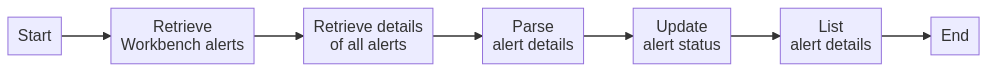
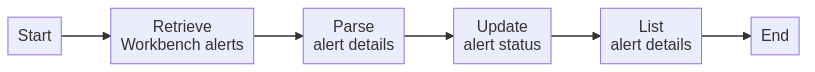
replace workbench related APIs to simplify logic by new API "GET workbenchHistories"
- script outputs and Elasticsearch index are changed partially, so please refer to README document and API document for details

diff --git a/v1-events-to-elasticsearch/python/v1_events_to_elasticsearch.py b/v1-events-to-elasticsearch/python/v1_events_to_elasticsearch.py
@@ -62,7 +62,7 @@ class TmV1Client:
         raise RuntimeError(f'Request unsuccessful (POST {path}):'
                            f' {r.status_code} {r.text}')
 
-    def get_siem(self, start, end, offset=None, size=None):
+    def get_workbench_histories(self, start, end, offset=None, size=None):
         if not check_datetime_aware(start):
             start = start.astimezone()
         if not check_datetime_aware(end):
@@ -72,17 +72,12 @@ class TmV1Client:
         start = start.isoformat(timespec='milliseconds').replace('+00:00', 'Z')
         end = end.isoformat(timespec='milliseconds').replace('+00:00', 'Z')
         # API returns data in the range of [offset, offset+limit)
-        return self.get('/v2.0/siem/events', params=dict([
-            ('startDateTime', start), ('endDateTime', end)
-        ]
+        return self.get('/v2.0/xdr/workbench/workbenchHistories',
+            params=dict([('startTime', start), ('endTime', end),
+                ('sortBy', '-createdTime')]
             + ([('offset', offset)] if offset is not None else [])
             + ([('limit', size)] if size is not None else [])
         ))['data']['workbenchRecords']
-
-    def get_workbench(self, workbench_id):
-        return self.get(
-            f'/v2.0/xdr/workbench/workbenches/{workbench_id}'
-        )['data']
 
     def get_oat(self, start, end, size=None, nextBatchToken=None):
         if size is None:
@@ -119,26 +114,13 @@ def fetch_workbench_alerts(v1, start, end):
     size = 100
     alerts = []
     while True:
-        gotten = v1.get_siem(start, end, offset, size)
+        gotten = v1.get_workbench_histories(start, end, offset, size)
         if not gotten:
             break
         print(f'Workbench alerts ({offset} {offset+size}): {len(gotten)}')
         alerts.extend(gotten)
         offset = len(alerts)
     return alerts
-
-
-def fetch_workbench_details(v1, alerts):
-    """
-    This function do the loop to get the workbench detail every alert.
-    """
-    details = []
-    count = len(alerts)
-    for i, alert in enumerate(alerts):
-        details.append(v1.get_workbench(alert['workbenchId']))
-        print(f'\rWorkbench alert details {i+1}/{count}',
-              end=('' if (i + 1) < count else None))
-    return details
 
 
 def fetch_observed_attack_techniques(v1, start, end):
@@ -197,11 +179,11 @@ def correct_data(docs):
        This function names the same field for timestamp, 'es_basetime'.
     """
     for d in docs['workbench']:
-        for entity in d['impactScope']:
+        for entity in d['detail']['impactScope']:
             if isinstance(entity['entityValue'], str):
                 entity['entityString'] = entity['entityValue']
                 entity['entityValue'] = {}
-        d['es_basetime'] = d['workbenchCompleteTimestamp']
+        d['es_basetime'] = d['detail']['workbenchCompleteTimestamp']
     for d in docs['observed_techniques']:
         d['es_basetime'] = d['detectionTime']
     if 'detections' in docs:
@@ -225,8 +207,7 @@ def pull_v1_data_to_es(v1, es, start, end, index_prefix, include_detections):
     if not es.ping():
         raise RuntimeError('Elasticsearch server unavailable')
     docs = {}
-    alerts = fetch_workbench_alerts(v1, start, end)
-    docs['workbench'] = fetch_workbench_details(v1, alerts)
+    docs['workbench'] = fetch_workbench_alerts(v1, start, end)
     docs['observed_techniques'] = fetch_observed_attack_techniques(
         v1, start, end)
     if include_detections:

diff --git a/detection-and-response/python/detection_and_response.py b/detection-and-response/python/detection_and_response.py
@@ -58,7 +58,7 @@ class TmV1Client:
         raise RuntimeError(f'Request unsuccessful (PUT {path}):'
                            f' {r.status_code} {r.text}')
 
-    def list_workbench(self, start, end, status_list=None,
+    def get_workbench_histories(self, start, end, status_list=None,
                        offset=None, size=None):
         if not check_datetime_aware(start):
             start = start.astimezone()
@@ -69,19 +69,14 @@ class TmV1Client:
         start = start.isoformat(timespec='milliseconds').replace('+00:00', 'Z')
         end = end.isoformat(timespec='milliseconds').replace('+00:00', 'Z')
         # API returns data in the range of [offset, offset+limit)
-        return self.post('/v2.0/xdr/workbench/workbenches/history', json=dict([
-            ('startTime', start), ('endTime', end), ('sortBy', '-createdTime')
-        ]
+        return self.get('/v2.0/xdr/workbench/workbenchHistories', 
+            params=dict([('startTime', start), ('endTime', end),
+                ('sortBy', '-createdTime')]
             + ([('investigationStatus', status_list)]
                 if status_list is not None else [])
             + ([('offset', offset)] if offset is not None else [])
             + ([('limit', size)] if size is not None else [])
         ))['data']['workbenchRecords']
-
-    def get_workbench(self, workbench_id):
-        return self.get(
-            f'/v2.0/xdr/workbench/workbenches/{workbench_id}'
-        )['data']
 
     def update_workbench(self, workbench_id, status):
         return self.put(
@@ -127,7 +122,7 @@ def fetch_new_workbench_alerts(v1, start, end):
     size = 100
     alerts = []
     while True:
-        gotten = v1.list_workbench(
+        gotten = v1.get_workbench_histories(
             start, end, [TmV1Client.WB_STATUS_NEW], offset, size)
         if not gotten:
             break
@@ -171,8 +166,7 @@ def main(start, end, days, v1_token, v1_url):
     for record in wb_records:
         wb_id = record['workbenchId']
         v1.update_workbench(wb_id, TmV1Client.WB_STATUS_IN_PROGRESS)
-        workbench = v1.get_workbench(wb_id)
-        impact_scope = workbench['impactScope']
+        impact_scope = record['detail']['impactScope']
         for entity in impact_scope:
             entity_type = entity['entityType']
             if entity_type == 'host':
@@ -195,7 +189,7 @@ def main(start, end, days, v1_token, v1_url):
                            f'{os.linesep}Related acounts = {accounts}')
                     v1.add_workbench_notes(wb_id, msg)
             elif entity_type == 'emailAddress':
-                query = create_message_query(entity, workbench['indicators'])
+                query = create_message_query(entity, record['detail']['indicators'])
                 mail_logs = v1.search_message_activities(
                     start, end, query)['data']['logs']
                 if mail_logs:

diff --git a/check-incident-details/python/check_incident_details.py b/check-incident-details/python/check_incident_details.py
@@ -48,7 +48,7 @@ class TmV1Client:
         raise RuntimeError(f'Request unsuccessful (PUT {path}):'
                            f' {r.status_code} {r.text}')
 
-    def get_siem(self, start, end, offset=None, size=None):
+    def get_workbench_histories(self, start, end, offset=None, size=None):
         if not check_datetime_aware(start):
             start = start.astimezone()
         if not check_datetime_aware(end):
@@ -58,17 +58,12 @@ class TmV1Client:
         start = start.isoformat(timespec='milliseconds').replace('+00:00', 'Z')
         end = end.isoformat(timespec='milliseconds').replace('+00:00', 'Z')
         # API returns data in the range of [offset, offset+limit)
-        return self.get('/v2.0/siem/events', params=dict([
-            ('startDateTime', start), ('endDateTime', end)
-        ]
+        return self.get('/v2.0/xdr/workbench/workbenchHistories',
+            params=dict([('startTime', start), ('endTime', end),
+                ('sortBy', '-createdTime')]
             + ([('offset', offset)] if offset is not None else [])
             + ([('limit', size)] if size is not None else [])
         ))['data']['workbenchRecords']
-
-    def get_workbench(self, workbench_id):
-        return self.get(
-            f'/v2.0/xdr/workbench/workbenches/{workbench_id}'
-        )['data']
 
     def update_workbench(self, workbench_id, status):
         return self.put(
@@ -85,7 +80,7 @@ def fetch_workbench_alerts(v1, start, end):
     size = 100
     alerts = []
     while True:
-        gotten = v1.get_siem(start, end, offset, size)
+        gotten = v1.get_workbench_histories(start, end, offset, size)
         if not gotten:
             break
         print(f'Workbench alerts ({offset} {offset+size}): {len(gotten)}')
@@ -114,13 +109,9 @@ def main(start, end, days, v1_token, v1_url):
         records_list = []
         for record in wb_records:
             wb_id = record['workbenchId']
-            records_list.append(v1.get_workbench(wb_id))
+            records_list.append(record)
             if record['investigationStatus'] == 0:
                 v1.update_workbench(wb_id, TmV1Client.WB_STATUS_IN_PROGRESS)
-            print('\rTarget Workbench alerts with details (and updated status,'
-                  f' if applicable) ({wb_id}): {len(records_list)}',
-                  end=('' if (len(records_list)) < len(wb_records) else None))
-        print('')
         print('Details of target Workbench alerts:')
         print(json.dumps(records_list, indent=2))
     else:

diff --git a/detection-and-response/README.md b/detection-and-response/README.md
@@ -3,8 +3,7 @@ This task identifies the highlighted object in a Workbench alert and then takes 
 ![flowchart](../.resources/take_a_response_action_on_the_highlighted_object_in_a_workbench_alert.png)  
 
 ## Related APIs
-- [Get alert history](https://automation.trendmicro.com/xdr/api-v2#tag/Alerts/paths/~1v2.0~1xdr~1workbench~1workbenches~1history/post)
-- [Get alert details](https://automation.trendmicro.com/xdr/api-v2#tag/Details/paths/~1v2.0~1xdr~1workbench~1workbenches~1{workbenchId}/get)
+- [Get alert history with details](https://automation.trendmicro.com/xdr/api-v2#tag/Alerts/paths/~1v2.0~1xdr~1workbench~1workbenchHistories/get)
 - [Edit alert status](https://automation.trendmicro.com/xdr/api-v2#tag/Alerts/paths/~1v2.0~1xdr~1workbench~1workbenches~1{workbenchId}/put)
 - [Query information for multiple endpoints](https://automation.trendmicro.com/xdr/api-v2#tag/Search/paths/~1v2.0~1xdr~1eiqs~1query~1batch~1endpointInfo/post)
 - [Isolate endpoint](https://automation.trendmicro.com/xdr/api-v2#tag/Endpoint/paths/~1v2.0~1xdr~1response~1isolate/post)

diff --git a/v1-events-to-elasticsearch/README.md b/v1-events-to-elasticsearch/README.md
@@ -3,8 +3,7 @@ This task sends data about Workbench alerts, events that may trigger alerts (Obs
 ![flowchart](../.resources/send_workbench_alerts_and_other_detection_data_to_elasticsearch.png)  
 
 ## Related APIs
-- [List alerts](https://automation.trendmicro.com/xdr/api-v2#tag/Alerts/paths/~1v2.0~1siem~1events/get)
-- [Get alert details](https://automation.trendmicro.com/xdr/api-v2#tag/Details/paths/~1v2.0~1xdr~1workbench~1workbenches~1{workbenchId}/get)
+- [Get alert history with details](https://automation.trendmicro.com/xdr/api-v2#tag/Alerts/paths/~1v2.0~1xdr~1workbench~1workbenchHistories/get)
 - [Search Observed Attack Techniques event list](https://automation.trendmicro.com/xdr/api-v2#tag/Observed-Attack-Techniques/paths/~1v2.0~1xdr~1oat~1detections/get)
 - [Search for data and list all results](https://automation.trendmicro.com/xdr/api-v2#tag/Search/paths/~1v2.0~1xdr~1search~1data/post)
 

diff --git a/v1-events-to-elasticsearch/python/README.md b/v1-events-to-elasticsearch/python/README.md
@@ -47,7 +47,6 @@
 The following sample code writes the number of retrieved Workbench alerts, Observed Attack Technique events, and detections to `stdout`.
 ```text
 Get workbench alerts (0 100): <alert_count>
-Get workbench details <alert_detail_count>
 Get OAT data(0 200): <oat_count>
 Get detection data(<start> <end>): <detection_count>
 ```
@@ -61,4 +60,4 @@ The sample code also indexes the data in Elasticsearch. You can perform the foll
     - tmv1\_detection
 - Check the following data fields:
     - All indices: The time field is "es\_basetime".
-    - "workbench" index: A new field called "impactScope.entityString" exists. This is renamed from "impactScope.entityValue".
+    - "workbench" index: A new field called "detail.impactScope.entityString" exists. This is renamed from "detail.impactScope.entityValue".

diff --git a/check-incident-details/README.md b/check-incident-details/README.md
@@ -3,8 +3,7 @@ This task retrieves data about incident-related Workbench alerts and then modifi
 ![flowchart](../.resources/modify_alert_status_after_checking_alert_details.png)  
 
 ## Related APIs
-- [List alerts](https://automation.trendmicro.com/xdr/api-v2#tag/Alerts/paths/~1v2.0~1siem~1events/get)
-- [Get alert details](https://automation.trendmicro.com/xdr/api-v2#tag/Details/paths/~1v2.0~1xdr~1workbench~1workbenches~1{workbenchId}/get)
+- [Get alert history with details](https://automation.trendmicro.com/xdr/api-v2#tag/Alerts/paths/~1v2.0~1xdr~1workbench~1workbenchHistories/get)
 - [Edit alert status](https://automation.trendmicro.com/xdr/api-v2#tag/Alerts/paths/~1v2.0~1xdr~1workbench~1workbenches~1{workbenchId}/put)
 
 ## Supported API versions

diff --git a/check-incident-details/python/README.md b/check-incident-details/python/README.md
@@ -45,8 +45,6 @@ Target Workbench alerts:
     // Workbench alert ID list
 ]
 
-Get details and update status as needed (<workbench_id>): <alert_detail_count>
-
 Details for target Workbench alerts:
 [
   {
